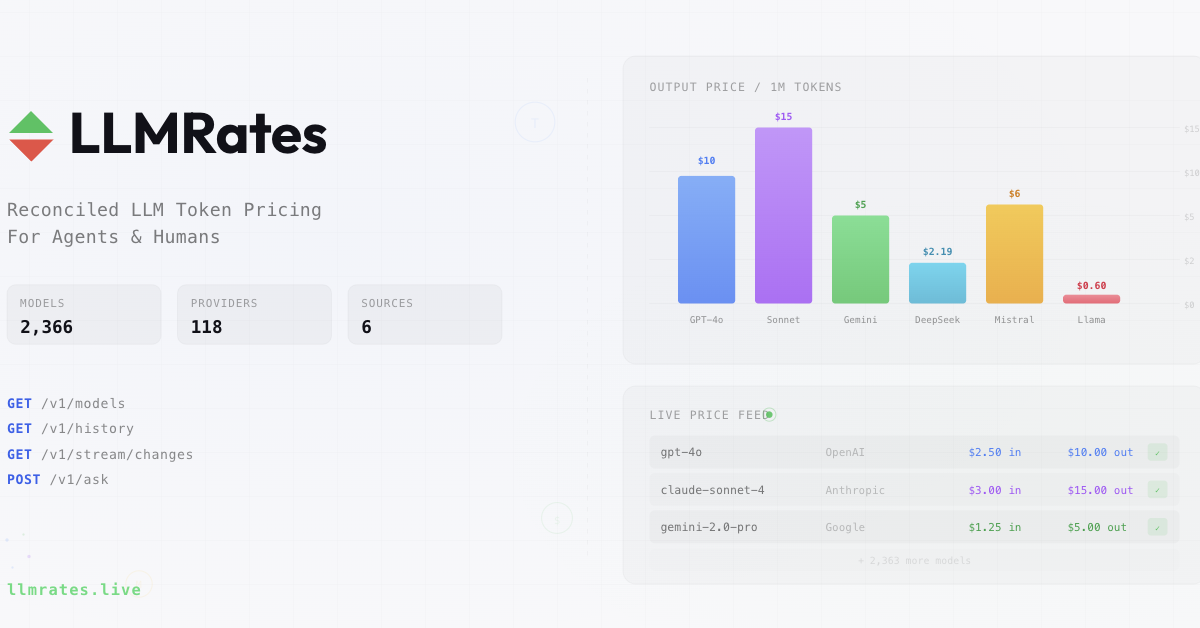
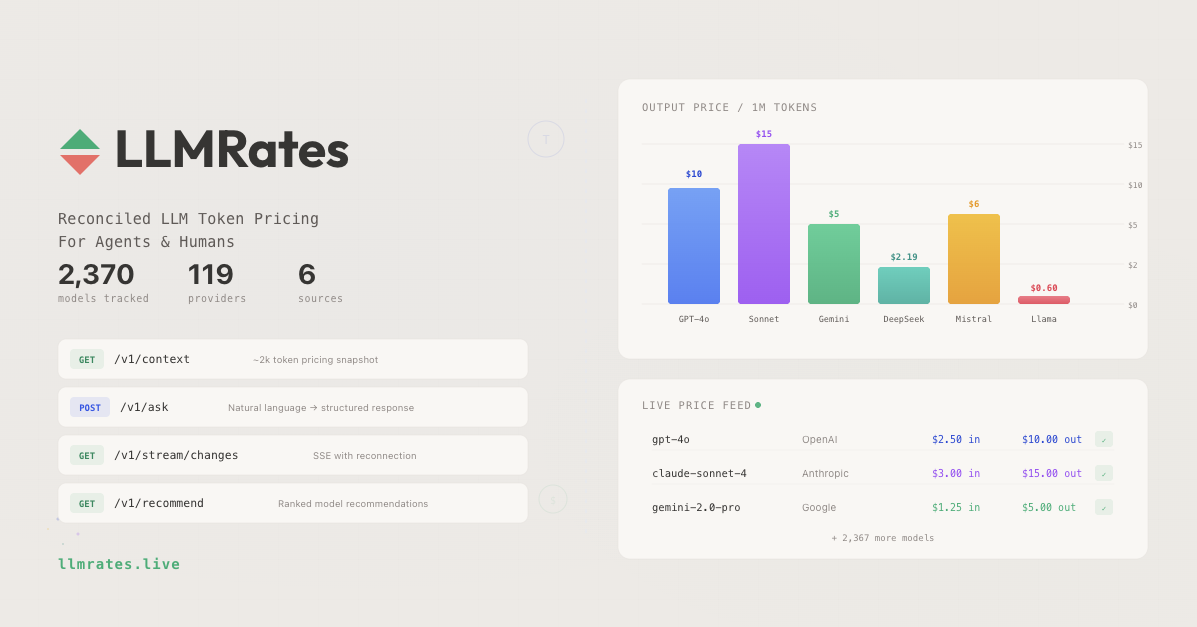
fix(og): replace OG images with new on-palette dark and light variants
og-image.png and og-image-light.png updated to match the app's colour palette.
Updated width/height metadata to match actual dimensions (1188×613, 1197×627).

diff --git a/frontend/app/page.tsx b/frontend/app/page.tsx
@@ -27,8 +27,8 @@ export const metadata: Metadata = {
     images: [
       {
         url: "https://llmrates.live/og-image.png",
-        width: 1200,
-        height: 628,
+        width: 1188,
+        height: 613,
         alt: "LLMRates — Compare AI Model Pricing Across Providers",
       },
     ],

diff --git a/frontend/app/layout.tsx b/frontend/app/layout.tsx
@@ -64,8 +64,8 @@ export const metadata: Metadata = {
     images: [
       {
         url: `${SITE_URL}/og-image.png`,
-        width: 1200,
-        height: 628,
+        width: 1188,
+        height: 613,
         alt: "LLMRates — Compare AI Model Pricing Across Providers",
       },
     ],
